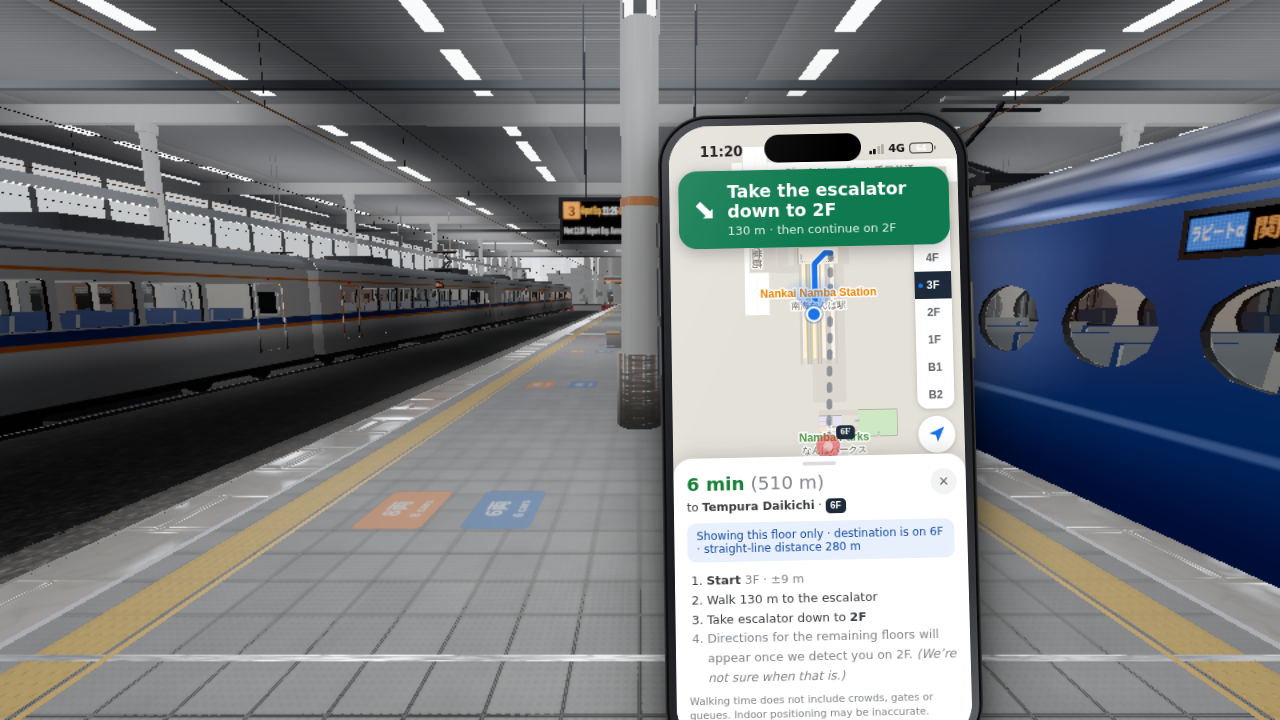
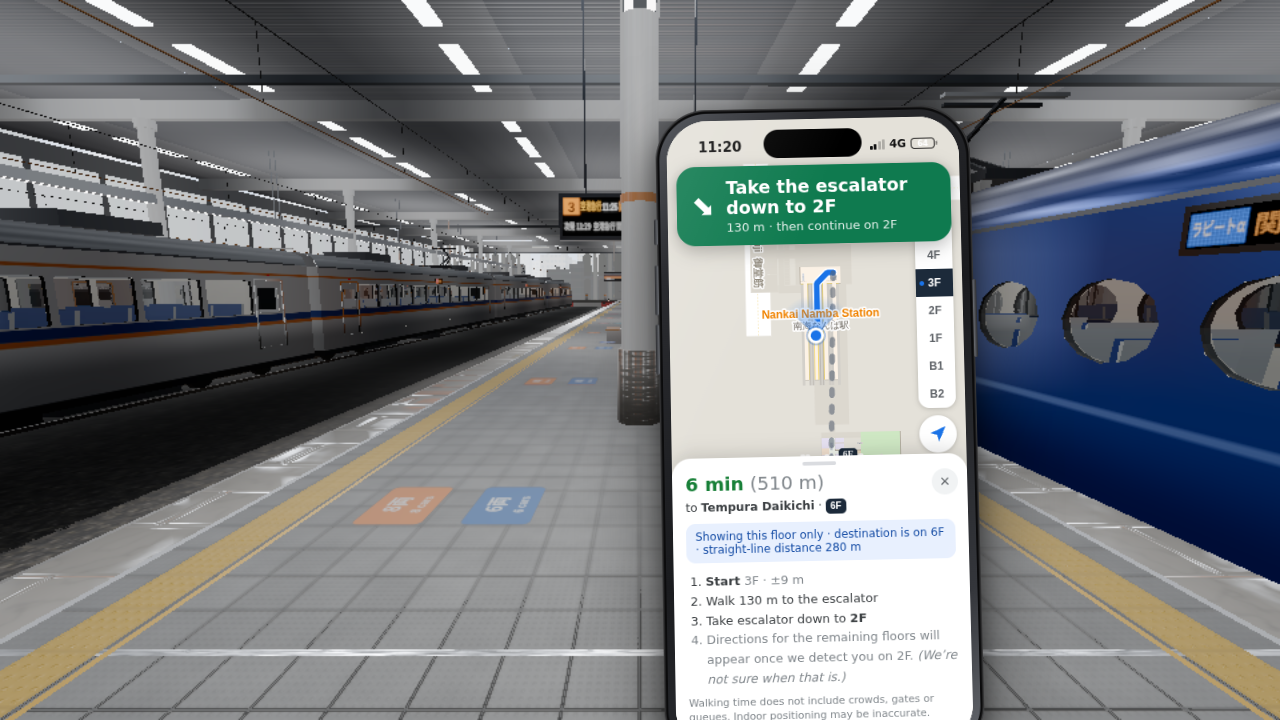
Lost in Namba v2: WIP checkpoint
Claude-Session: https://claude.ai/code/session_01DFPWmVZjWP3RarZo2JLFjj

diff --git a/namba-demo/js/world/transit.js b/namba-demo/js/world/transit.js
@@ -439,8 +439,8 @@ export class Transit {
           `The train for ${s.destEn} will arrive at track ${no} shortly. Please stand back from the platform doors.`, 'metro_approach');
       } else {
         ann('approach',
-          `まもなく、${no}番線に、電車がまいります。危ないですから、黄色い線の内側までお下がりください。この電車は、折り返し、${hh}時${mm}分発、${tyJa}、${s.destJa}行きとなります。`,
-          `A train is now arriving at track ${no}. Please stand behind the yellow line. This train will depart at ${tm} as the ${s.typeEn} for ${s.destEn}.`, 'nankai_approach');
+          `まもなく、${no}番線に、${s.destJa}行き、${tyJa}が、まいります。危ないですから、黄色い線の内側までお下がりください。この電車は、折り返し、${hh}時${mm}分発となります。`,
+          `The ${s.typeEn} bound for ${s.destEn} is arriving at track ${no}. Please stand behind the yellow line. This train will depart at ${tm}.`, 'nankai_approach');
       }
     } else if (kind === 'arrive') {
       ev.emit('train:arrive', Object.assign({ doors: this._doorList(cfg, s), terminal: line.id === 'nankai' }, base));

diff --git a/namba-demo/js/ui/phone.js b/namba-demo/js/ui/phone.js
@@ -45,9 +45,9 @@ const esc = (s) => String(s == null ? '' : s).replace(/[&<>"]/g, c => ({ '&': '&
 const lerp = (a, b, t) => a + (b - a) * t;
 
 // pose geometry (device units: the phone is 340 x 700)
-const GLANCE_H = 114;          // how much of the phone's top shows in the glance pose (device px)
+const GLANCE_H = 122;          // how much of the phone's top shows in the glance pose (device px)
 const GLANCE_S = 0.97;         // scale vs. the raised phone (held a touch further away)
-const WALK_LOWER_S = 4.5;      // seconds of walking with the phone up before it lowers itself
+const WALK_LOWER_S = 3.5;      // seconds of walking with the phone up before it lowers itself
 
 // critically-ish damped spring step (semi-implicit Euler, sub-stepped)
 function spring(s, target, dt, w, z) {

diff --git a/namba-demo/js/ui/hud.js b/namba-demo/js/ui/hud.js
@@ -81,6 +81,9 @@ export class Hud {
   }
   // is this PA / distant line something the player is near enough to hear?
   paAudible(a) {
+    // the sound system knows what is actually spoken where the player stands (platforms loud, concourse faint, else silent)
+    const au = this.ctx.audio;
+    if (au && typeof au.paVolume === 'function') { try { const v = au.paVolume(a); if (typeof v === 'number' && isFinite(v)) return v > 0.06; } catch (e) { /* fall through */ } }
     const pl = this.ctx.player, b = pl && pl.body;
     if (!b) return true;
     const inStation = STATION_ZONES.has(pl.zone);

diff --git a/namba-demo/js/npc/crowd.js b/namba-demo/js/npc/crowd.js
@@ -97,7 +97,8 @@ export class Crowd {
   }
   lateUpdate(dt) {
     if (!this.renderer) return;
-    this.renderer.update(this.ctx.paused ? 0 : dt);
+    try { this.renderer.update(this.ctx.paused ? 0 : dt); }
+    catch (e) { if (!this._rErr) { this._rErr = true; console.error('[crowd] render', e); } }
   }
 
   // ---------------------------------------------------------------------------

diff --git a/namba-demo/notes/v2-phone.md b/namba-demo/notes/v2-phone.md
@@ -31,5 +31,40 @@ Suggested walkthrough card copy: **"Q — phone up / down · or hold right-click
   `bottom: calc(var(--phone-glance-h, 0px) + 28px)`.
 - HUD copy that says "Q opens your phone" / "Q for your phone" is still correct.
 
-## Status
-- [ ] in progress
+## What changed (v2)
+**Item 11 — realistic raise / lower** (`js/ui/phone.js`)
+- Three poses with a spring-driven hand: `glance` (default while playing: phone held low at the bottom-right, only its top
+  shows), `up` (full view), `down` (pocketed: title / intro / pause / end card / `pocket(true)`).
+- Raising = spring lift on a small arc → the device tilts toward you a beat later (under-damped: small settle). Lowering is
+  the reverse, critically damped. Walking bob is layered on top (bigger when lowered). No CSS transitions on the wrap.
+- Up pose now sits just RIGHT of the crosshair (you still see where you walk), not over it.
+- Auto-lower: running (Shift + moving) lowers it at once; ~3.5 s of walking with it up lowers it (not during install /
+  calibration / the 2.3 s reveal, not while typing, not within 2.5 s of using the mouse on the screen, not while the
+  right button holds it up). Re-grabs the pointer lock only with a live user gesture (no console error).
+- Right mouse hold (pointer stays locked, mouse-look works; context menu suppressed while playing).
+- Glance card (`js/ui/phone/glance.js`): the Dynamic Island expands into a black "live activity" card: the next step
+  (Lodestone), the vague crow-flies hint with a jittery arrow and "GPS weak" (Maps), install/calibration progress, or Aya's
+  text (slides in, pulses green 4×, "Q read" chip, then a green unread dot stays). The "Q" key cap on the card disappears
+  after the phone has been raised 3 times.
+- The old bottom-right peek card and "Q Phone" hint are gone (Aya's texts live in the glance card).
+
+**Items 10 / 12 — simpler, more helpful apps**
+- Lodestone (`js/ui/phone/lodestone.js`) now leads with ONE instruction card: big amber arrow tile (live-rotating for long
+  walks), "In 40 m", and a plain sentence ("Take the escalator up to 2F", "Turn left into Namba CITY", "Tempura Daikichi
+  is on your right"). A small "Then …" chip only when the next step follows within 30 m. Bottom card: "You are here ±1 m ·
+  [2F] Namba CITY" → "Destination · [6F] Tempura Daikichi · 4 min". No stats row, no metres/ramps counters.
+- The 3D exploded stack is a framed preview between the two cards; tap it, the "3D view" button, or **V** to expand: the
+  stack takes the screen (floor ladder, Route/Me, re-centre, Done) with the full step list in plain words below.
+- Upgrade moment kept, reads faster: install 1.8 s, calibration 3.0 s with ONE status line (Sampling the magnetic field →
+  Matching field anchors → Finding your floor → Locked ✓) and the floors locking in (the µT / anchors / floors read-out box
+  is gone). Then the snap: one big "You're on 3F · ±1 m" card for 2.3 s, then the guidance slides in.
+- Maps (`js/ui/phone/mapapp.js`): cleaner chrome (no category chips, no scale bar, no compass button), bigger route banner,
+  and the home sheet leads with "From Aya's message · Tempura Daikichi · Namba Parks · 6F · 280 m [Directions]". The
+  frustration is intact: drifting dot, wrong/lagging floor, crow-flies distance, directions stop at the first escalator.
+- Lodestone logo SVGs get unique gradient ids (a gradient inside a display:none section stopped painting elsewhere).
+
+## Testing
+- Scripts (scratchpad): `ph/after.mjs` (screens + logic checks), `ph/run.mjs` (before, run against a pristine copy).
+- Logic check in the page: open→up; walk 1 s→up; walk 5 s (old 4.5 s threshold)→still up → threshold lowered to 3.5 s;
+  run→glance; RMB hold→up, walking 6 s while held→up; release→glance; pocket→down; unpocket→glance.
+- The only console error in headless runs is `net::ERR_CERT_AUTHORITY_INVALID` for Google Fonts (sandbox proxy), not the phone.
